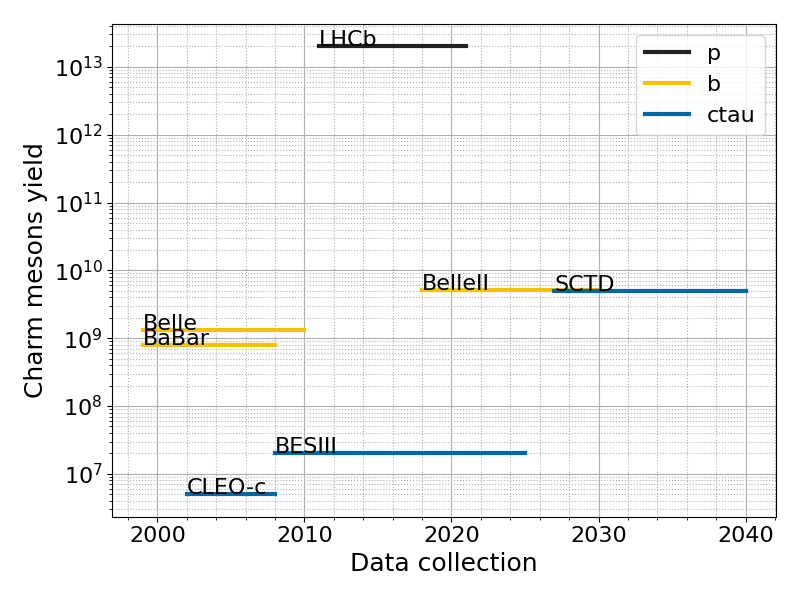
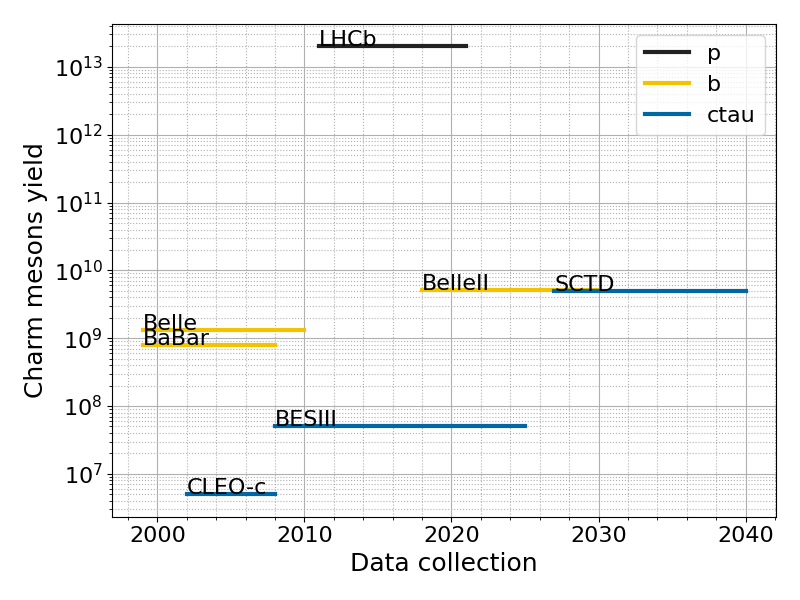
besiii charm yield adjusted

Changed region(s): [[0.3438, 0.66, 0.6562, 0.78]]

diff --git a/yields.py b/yields.py
@@ -23,6 +23,6 @@ def get_charm_meson_yields():
         'Belle'  : 13.e8,
         'BelleII': 5.2e9,
         'CLEO-c' : 5.e6,
-        'BESIII' : 2.e7,
+        'BESIII' : 5.e7,
         'SCT'    : 5.e9,
     }
